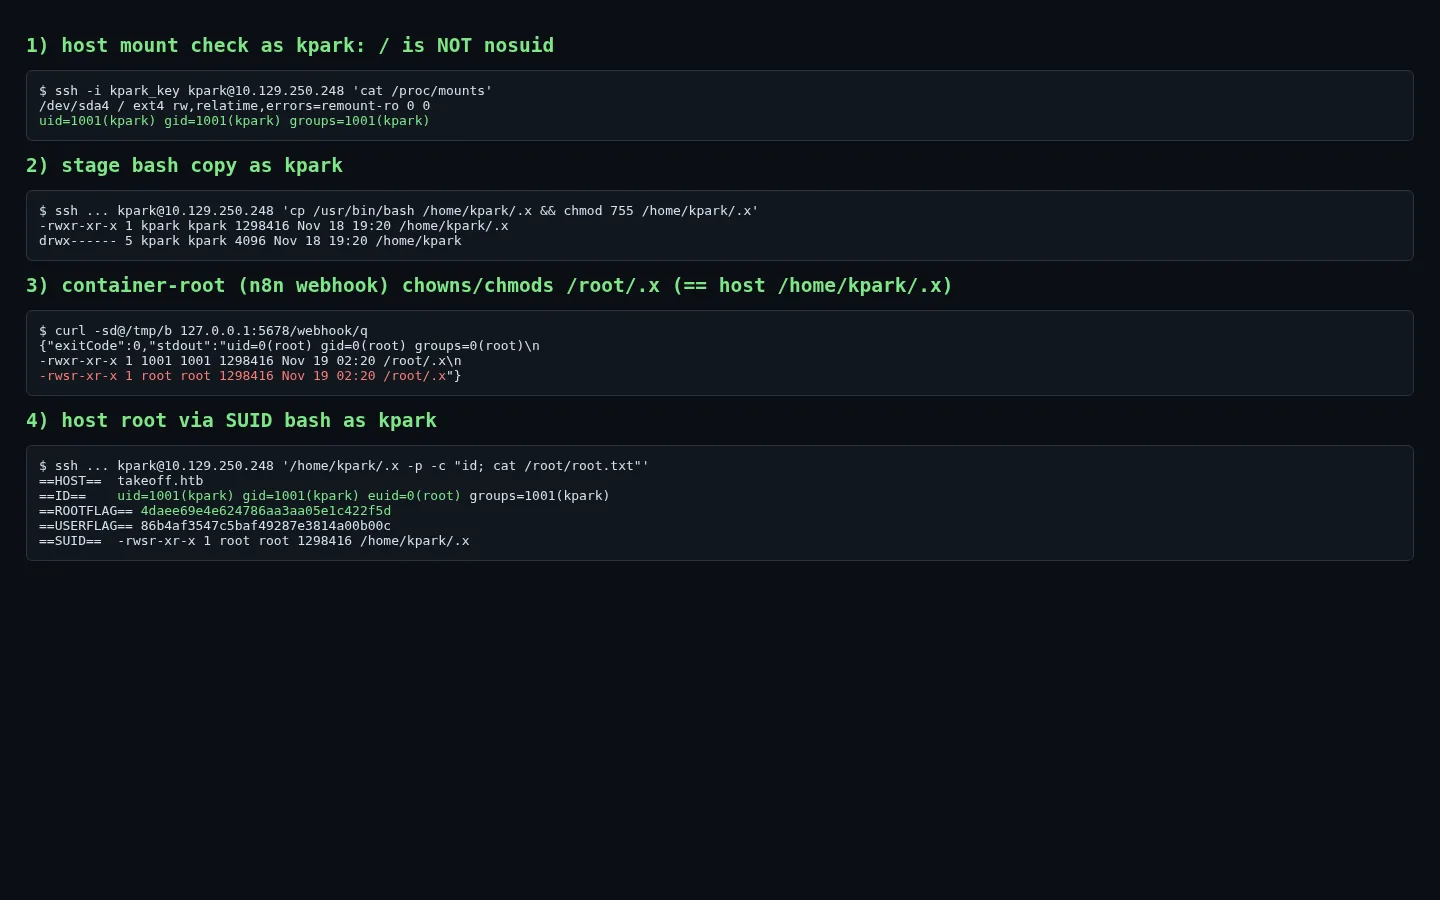
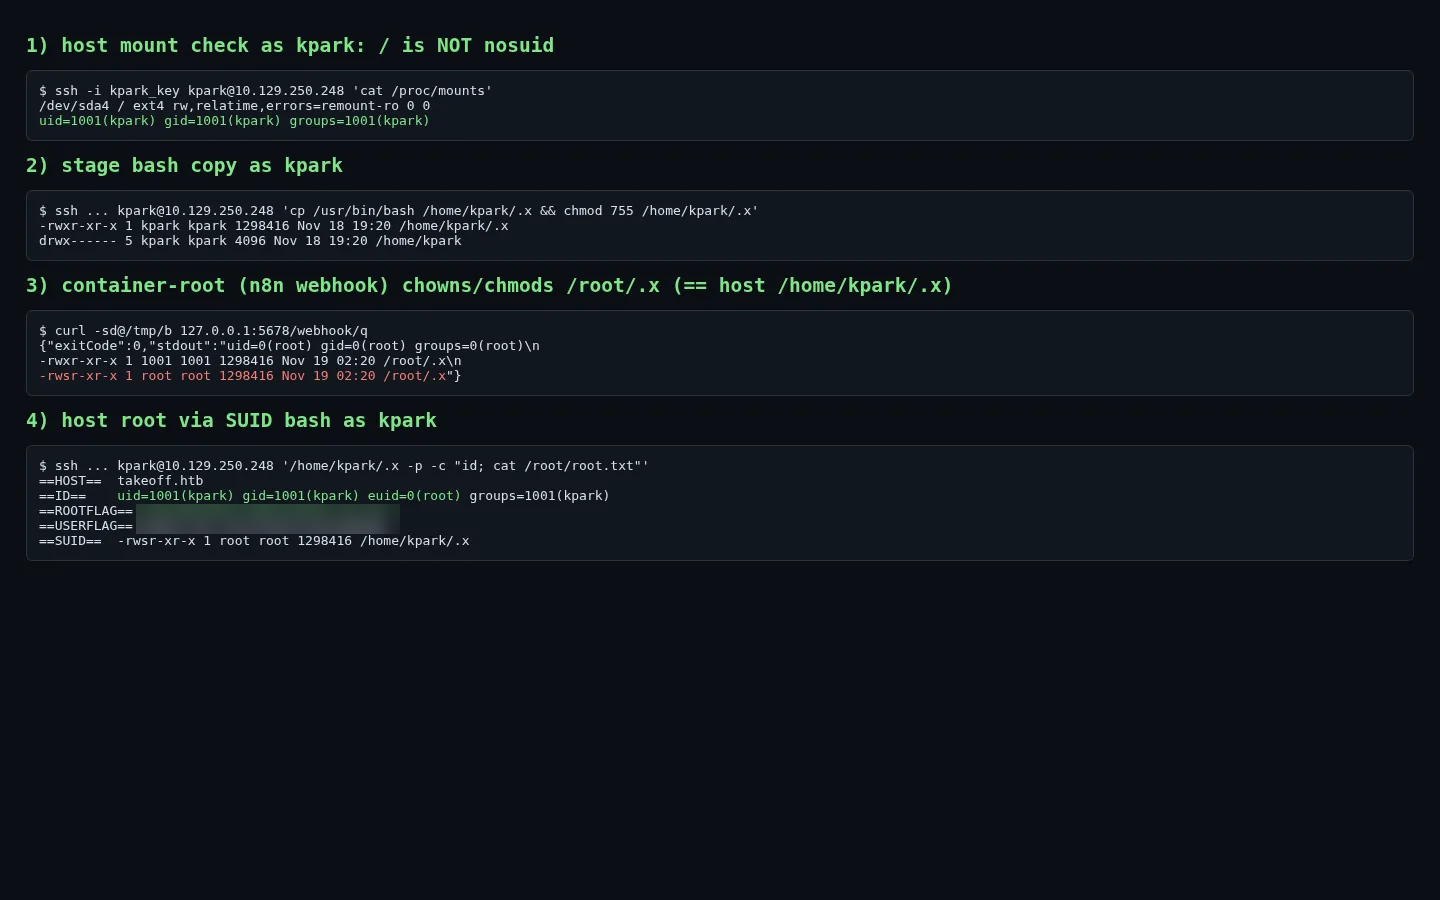
writeups: redact the Takeoff flags and blur them in the final screenshot
- takeoff-05-root.webp: ROOTFLAG and USERFLAG values blurred (downsampled first, not recoverable).
- htb-takeoff and htb-takeoff-en: user.txt and root.txt values replaced with 'omitted'.
- unclaimed-04-root.webp: the last four characters of the pixelated flag were still readable; blurred.

Changed region(s): [[0.0938, 0.56, 0.2812, 0.5911]]

diff --git a/src/content/writeups/htb-takeoff-en.md b/src/content/writeups/htb-takeoff-en.md
@@ -95,7 +95,7 @@ I created and activated a workflow with an **Execute Command** node behind a web
 mountinfo: 8:4 /home/kpark /root rw,relatime - ext4 /dev/sda4 rw
 ```
 
-That handed over three things at once: the `user.txt` (`86b4af3547c5baf49287e3814a00b00c`), n8n's credential-encryption key, and a place to plant an `authorized_keys` that turns into SSH as `kpark` on the host. I tested the container's capabilities before going further: no `CAP_SYS_ADMIN`, no `docker.sock`, and the device cgroup blocked reading `/dev/sda4` directly. The container alone couldn't read `root.txt`; that needed one more step on the host.
+That handed over three things at once: the `user.txt` (value omitted), n8n's credential-encryption key, and a place to plant an `authorized_keys` that turns into SSH as `kpark` on the host. I tested the container's capabilities before going further: no `CAP_SYS_ADMIN`, no `docker.sock`, and the device cgroup blocked reading `/dev/sda4` directly. The container alone couldn't read `root.txt`; that needed one more step on the host.
 
 ## Root on the host: a SUID bit planted by whoever controls the bind mount
 
@@ -112,7 +112,7 @@ chown root:root /root/.x && chmod 4755 /root/.x
 # back as kpark, over SSH with the planted key:
 /home/kpark/.x -p -c "id; cat /root/root.txt"
 → uid=1001(kpark) gid=1001(kpark) euid=0(root)
-→ 4daee69e4e624786aa3aa05e1c422f5d
+→ [flag omitted]
 ```
 
 ![euid=0 through the planted SUID bash, root.txt read](/img/takeoff-05-root.webp)

diff --git a/src/content/writeups/htb-takeoff.md b/src/content/writeups/htb-takeoff.md
@@ -95,7 +95,7 @@ Criei e ativei um workflow com um nó **Execute Command** por trás de um webhoo
 mountinfo: 8:4 /home/kpark /root rw,relatime - ext4 /dev/sda4 rw
 ```
 
-Isso deu três coisas de uma vez: a `user.txt` (`86b4af3547c5baf49287e3814a00b00c`), a chave de criptografia de credenciais do n8n, e um lugar para plantar um `authorized_keys` que vira SSH como `kpark` no host. Testei as caps do container antes de ir mais longe: sem `CAP_SYS_ADMIN`, sem `docker.sock`, e o device cgroup bloqueava leitura de `/dev/sda4` diretamente. O container sozinho não lia o `root.txt`; precisava de um passo a mais no host.
+Isso deu três coisas de uma vez: a `user.txt` (valor omitido), a chave de criptografia de credenciais do n8n, e um lugar para plantar um `authorized_keys` que vira SSH como `kpark` no host. Testei as caps do container antes de ir mais longe: sem `CAP_SYS_ADMIN`, sem `docker.sock`, e o device cgroup bloqueava leitura de `/dev/sda4` diretamente. O container sozinho não lia o `root.txt`; precisava de um passo a mais no host.
 
 ## Root no host: SUID plantado por quem controla o bind mount
 
@@ -112,7 +112,7 @@ chown root:root /root/.x && chmod 4755 /root/.x
 # de volta como kpark, por SSH com a chave plantada:
 /home/kpark/.x -p -c "id; cat /root/root.txt"
 → uid=1001(kpark) gid=1001(kpark) euid=0(root)
-→ 4daee69e4e624786aa3aa05e1c422f5d
+→ [flag omitida]
 ```
 
 ![euid=0 pela bash SUID plantada, root.txt lido](/img/takeoff-05-root.webp)
